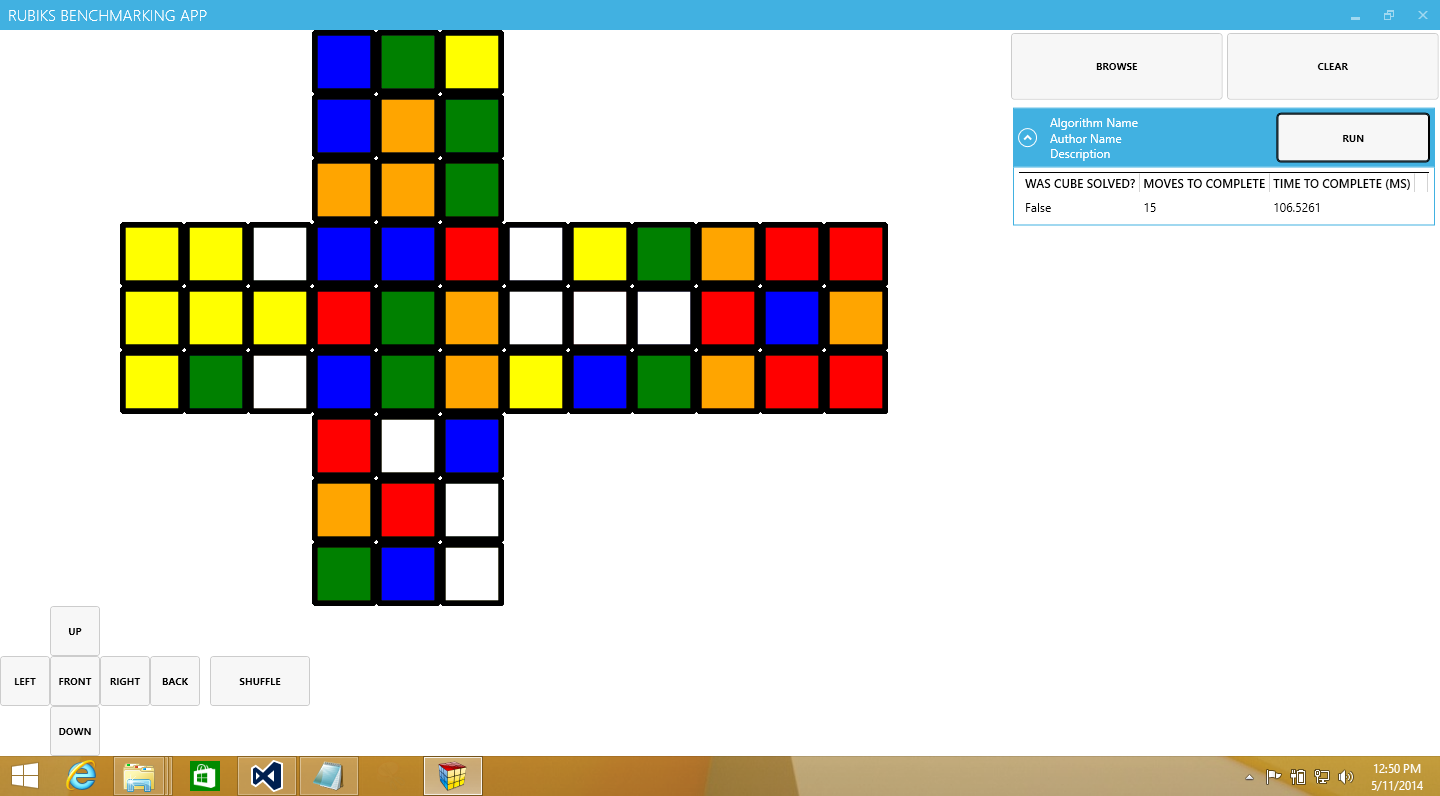
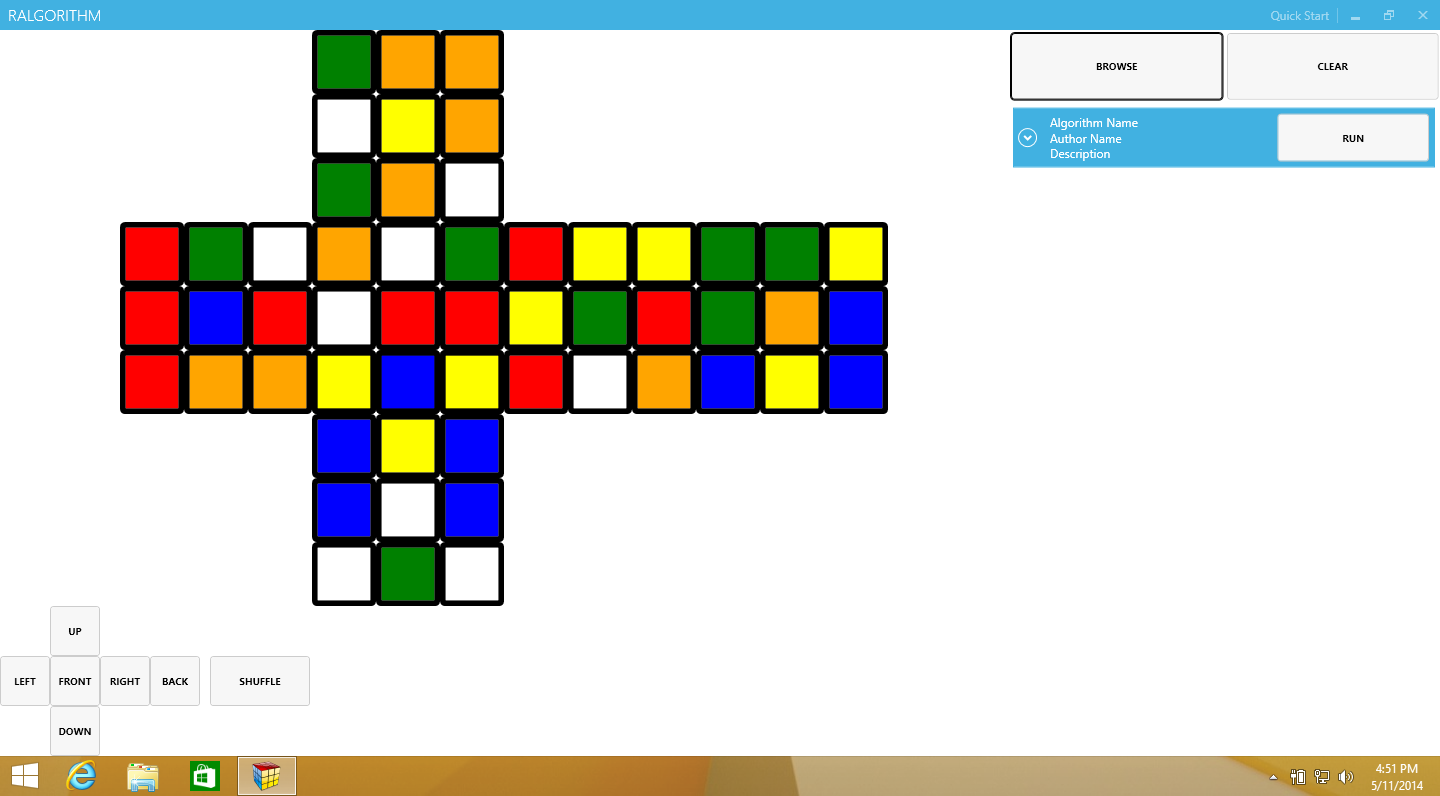
Updated name of application
git-svn-id: https://rubiks.svn.codeplex.com/svn@33062 1eac2b61-d0d7-4846-87ee-9410fe51cbb3

diff --git a/Dev/Src/RubiksShell/QuickStartGuide/QuickStart.html b/Dev/Src/RubiksShell/QuickStartGuide/QuickStart.html
@@ -2,10 +2,10 @@
 <html>
 <head>
     <link rel="stylesheet" href="metro-bootstrap.css">
-    <title>Rubiks Benchmarking App Quickstart</title>
+    <title>RAlgorithm Quickstart</title>
 </head>
 <body class="metro">
-    <h1>Rubiks Benchmarking App Quickstart</h1>
+    <h1>RAlgorithm Quickstart</h1>
     <h2>Creating a Rubiks Algorithm</h2>
     <ul>
         <li>
@@ -95,7 +95,7 @@
             <img src="vbAfterCopyPaste.PNG"/>
         </li>
         <li>
-            Hit F7 to build your algorithm. This will generate the .dll file that will be consumed by the Rubiks Benchmarking App.
+            Hit F7 to build your algorithm. This will generate the .dll file that will be consumed by the RAlgorithm.
         </li>
         <li>
             Right click on the <i>RubiksAlgorithm</i> row in the <i>Solution Explorer</i> panel. Click on <i>Open Folder in File Explorer</i>
@@ -103,12 +103,12 @@
             <img src="vbGettingDll.png"/>
         </li>
         <li>
-            Go to the <i>bin</i> folder and then the <i>Debug</i> folder. This folder will contain the dll that will be consumed by the Rubiks Benchmarking App. It will be called <i>RubiksAlgorithm.dll</i>.
+            Go to the <i>bin</i> folder and then the <i>Debug</i> folder. This folder will contain the dll that will be consumed by the RAlgorithm. It will be called <i>RubiksAlgorithm.dll</i>.
             <br/>
             <img src="vbDllFolder.png"/>
         </li>
         <li>
-            Copy the file location. Open the Rubiks Benchmarking App and click on <i>Browse</i>
+            Copy the file location. Open the RAlgorithm and click on <i>Browse</i>
         </li>
         <li>
             Paste the file location into the open file dialog and select <i>RubiksAlgorithm.dll</i>. Click on <i>Open</i>.

diff --git a/Dev/Src/RubiksShell/Shell.xaml b/Dev/Src/RubiksShell/Shell.xaml
@@ -2,7 +2,7 @@
         xmlns="http://schemas.microsoft.com/winfx/2006/xaml/presentation"
         xmlns:x="http://schemas.microsoft.com/winfx/2006/xaml"
         xmlns:metro="clr-namespace:MahApps.Metro.Controls;assembly=MahApps.Metro"
-        Title="Rubiks Benchmarking App" Height="350" Width="525" ResizeMode="CanResizeWithGrip"
+        Title="RAlgorithm" Height="350" Width="525" ResizeMode="CanResizeWithGrip"
         xmlns:Prism="http://www.codeplex.com/prism" Icon="cube.ico" ShowIconOnTitleBar="False">
     <metro:MetroWindow.WindowCommands>
         <metro:WindowCommands>
